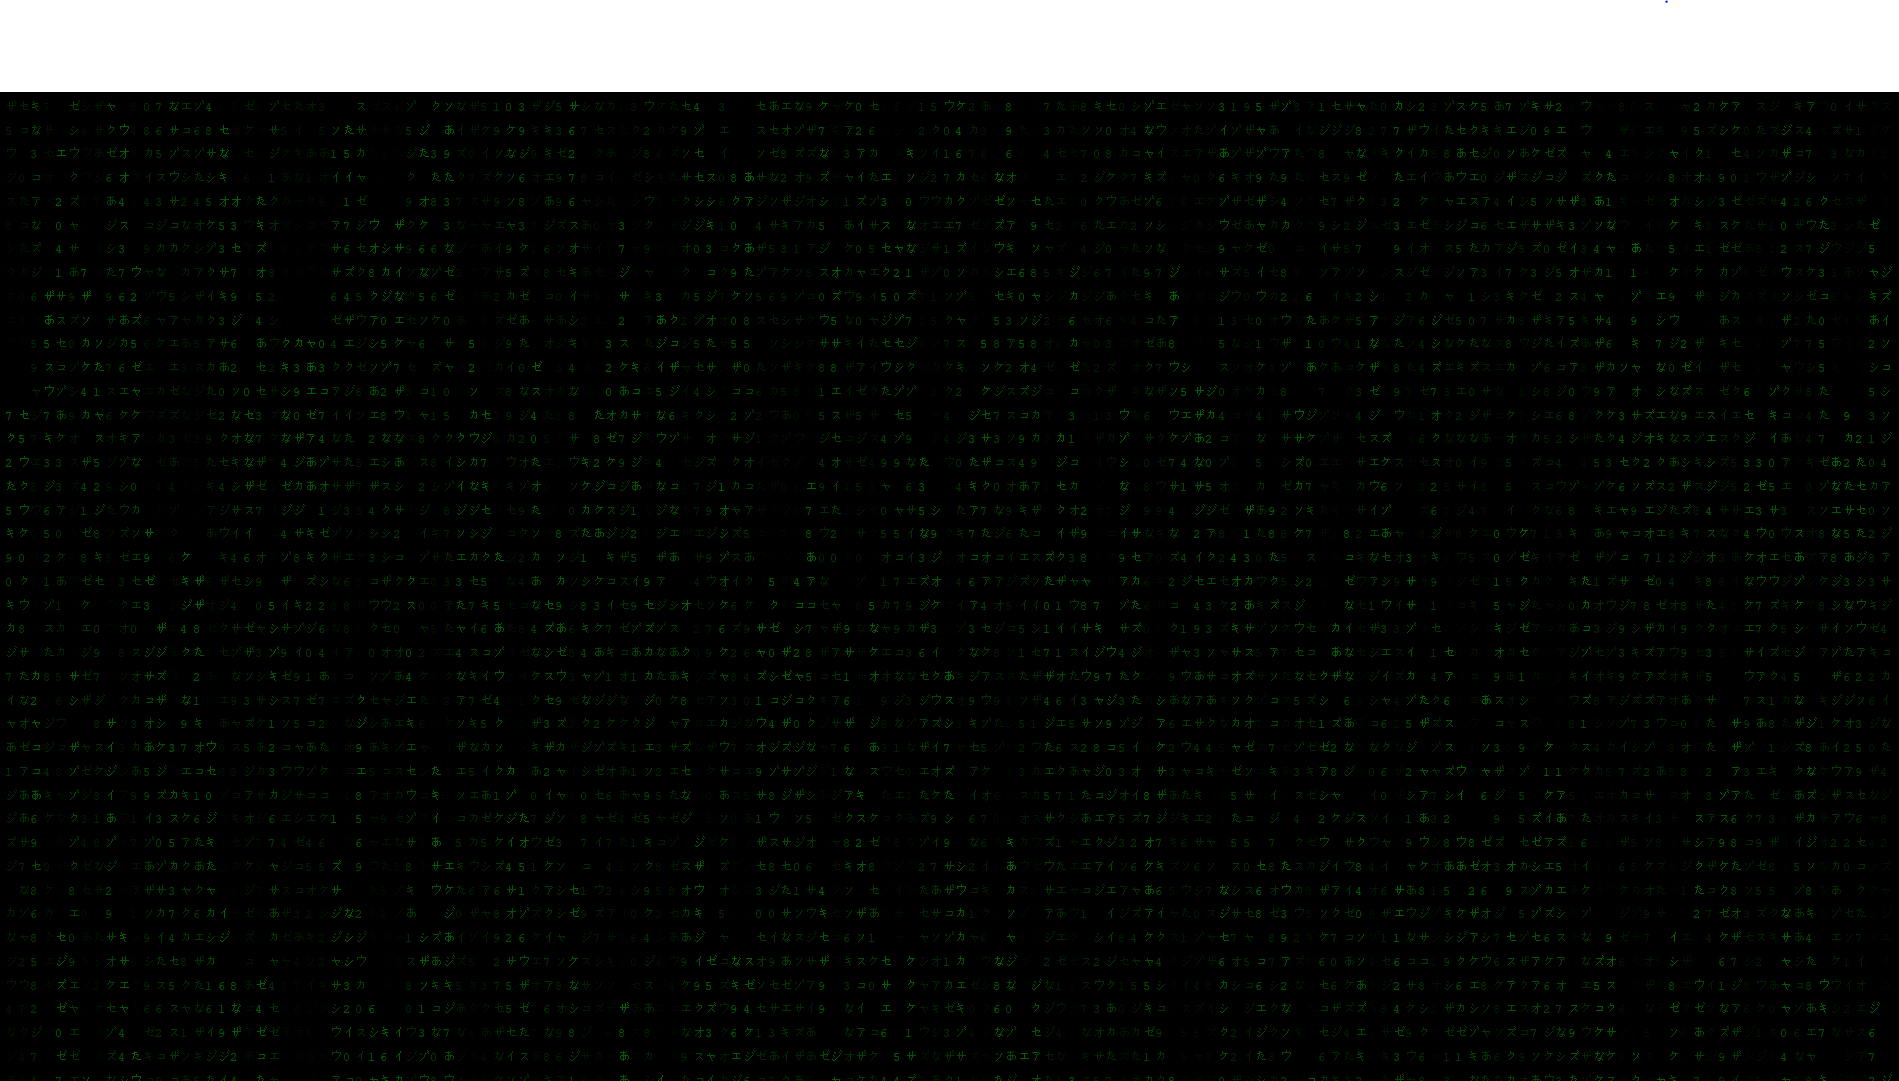
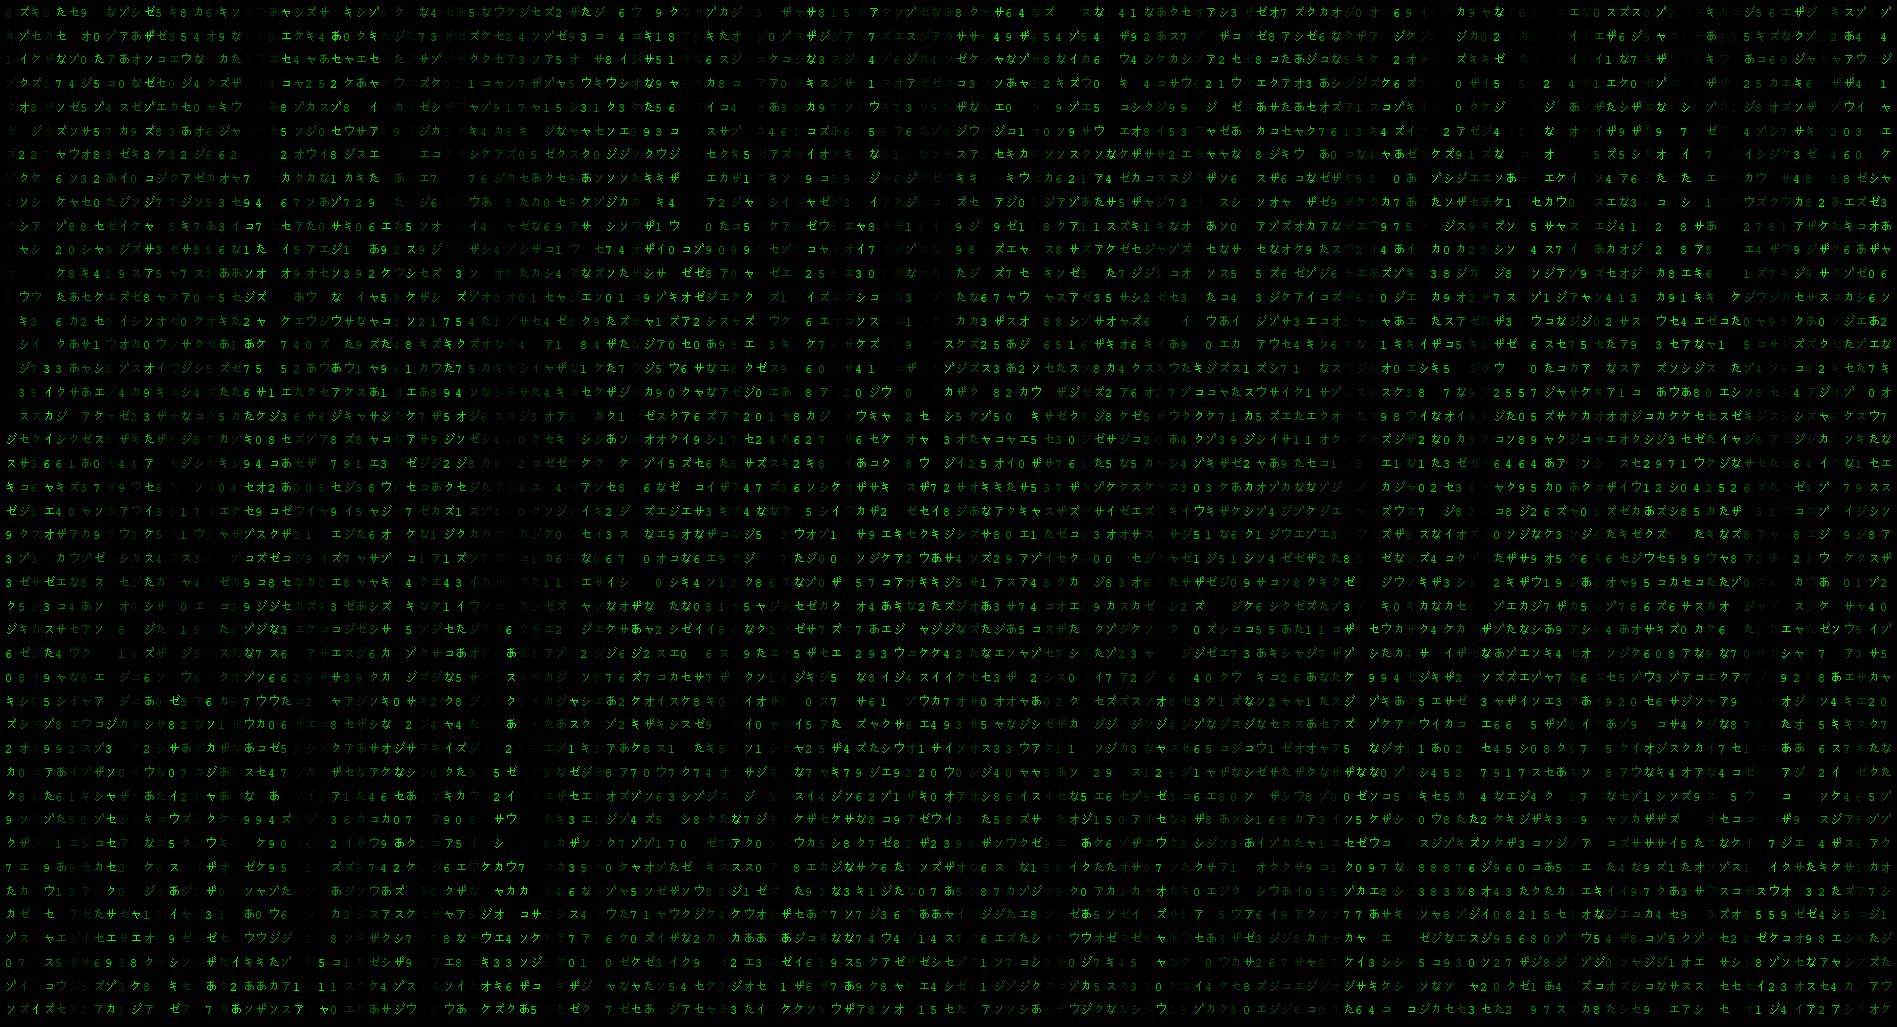
added new sample

diff --git a/src/Main.java b/src/Main.java
@@ -33,9 +33,9 @@ public class Main extends JPanel {
             int character_initial = random.nextInt(TEXT.length());
             character = new JLabel("" + TEXT.charAt(character_initial));
             character.setFont(new Font("monospaced", Font.PLAIN, FONT_SIZE));
-            if(columnColors[i]==null)columnColors[i]=new Color(0, random.nextInt(100), 0);
+            if(columnColors[i]==null)columnColors[i]=new Color(0, random.nextInt(255), 0);
             character.setForeground(columnColors[i]);
-            columnColors[i]=new Color(0,(columnColors[i].getGreen()+3)%100,0);
+            columnColors[i]=new Color(0,(columnColors[i].getGreen()+3)%255,0);
             row.add(character);
         }
         return row;
